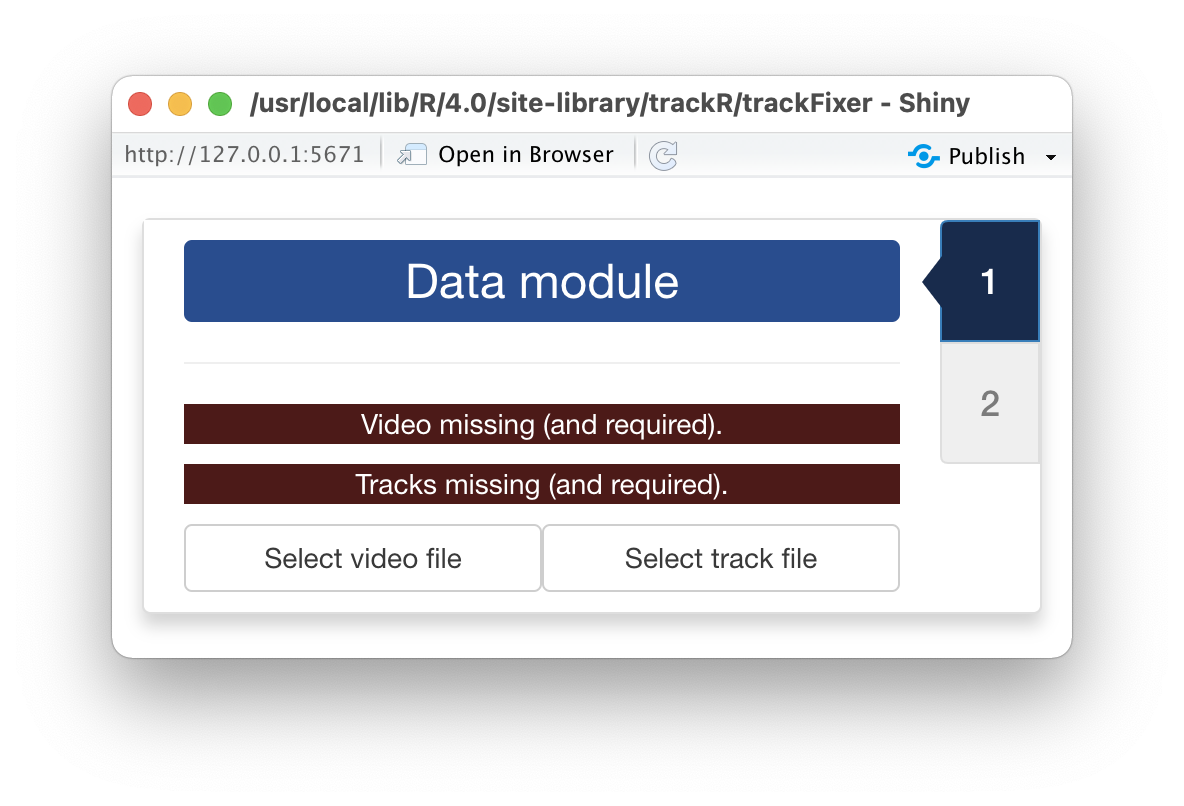
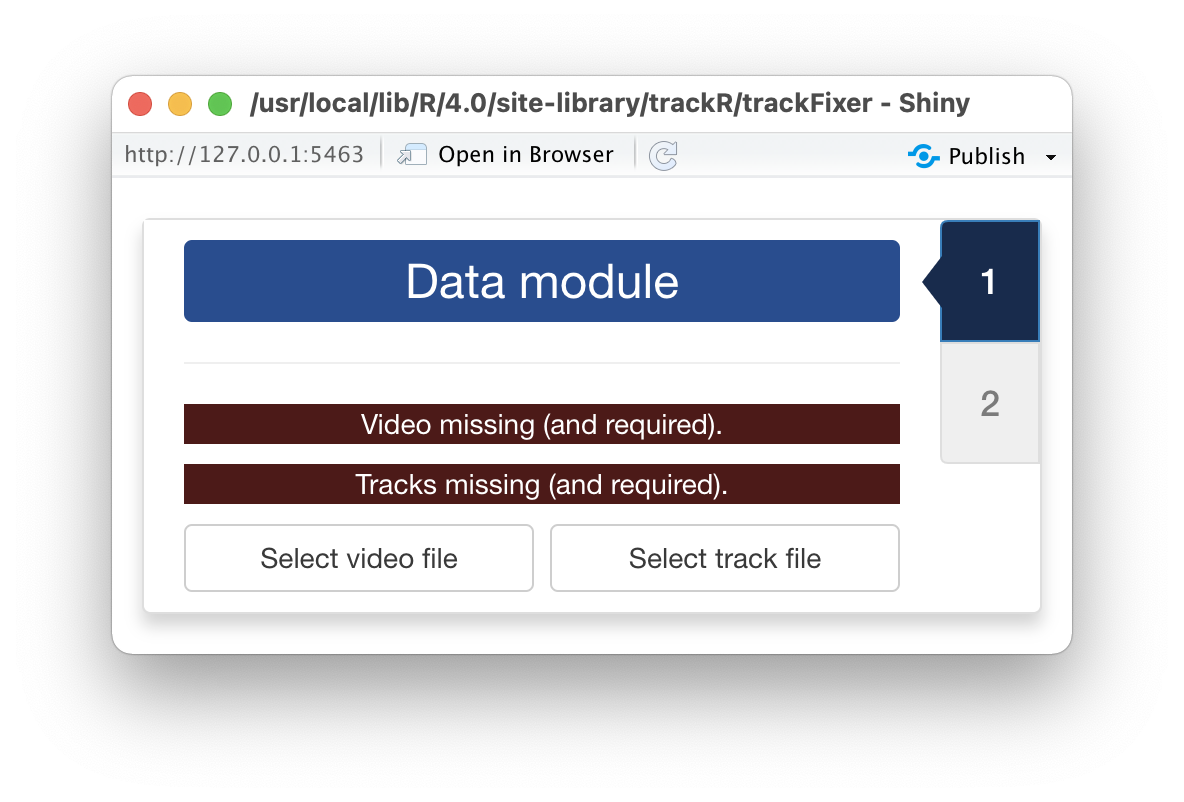
Slight tweaks to UI.

diff --git a/inst/trackFixer/www/trackFixer.css b/inst/trackFixer/www/trackFixer.css
@@ -94,3 +94,15 @@ hr.hr-text:after {
   padding: 1rem;
   background-color: white;
 }
+
+.settingsTable {
+  width: 100%;
+}
+
+.settingsTable td:empty {
+  width: 10px;
+}
+
+.settingsTable tr:empty {
+  height: 10px;
+}

diff --git a/inst/trackPlayer/www/trackPlayer.css b/inst/trackPlayer/www/trackPlayer.css
@@ -94,3 +94,15 @@ hr.hr-text:after {
   padding: 1rem;
   background-color: white;
 }
+
+.settingsTable {
+  width: 100%;
+}
+
+.settingsTable td:empty {
+  width: 10px;
+}
+
+.settingsTable tr:empty {
+  height: 10px;
+}
